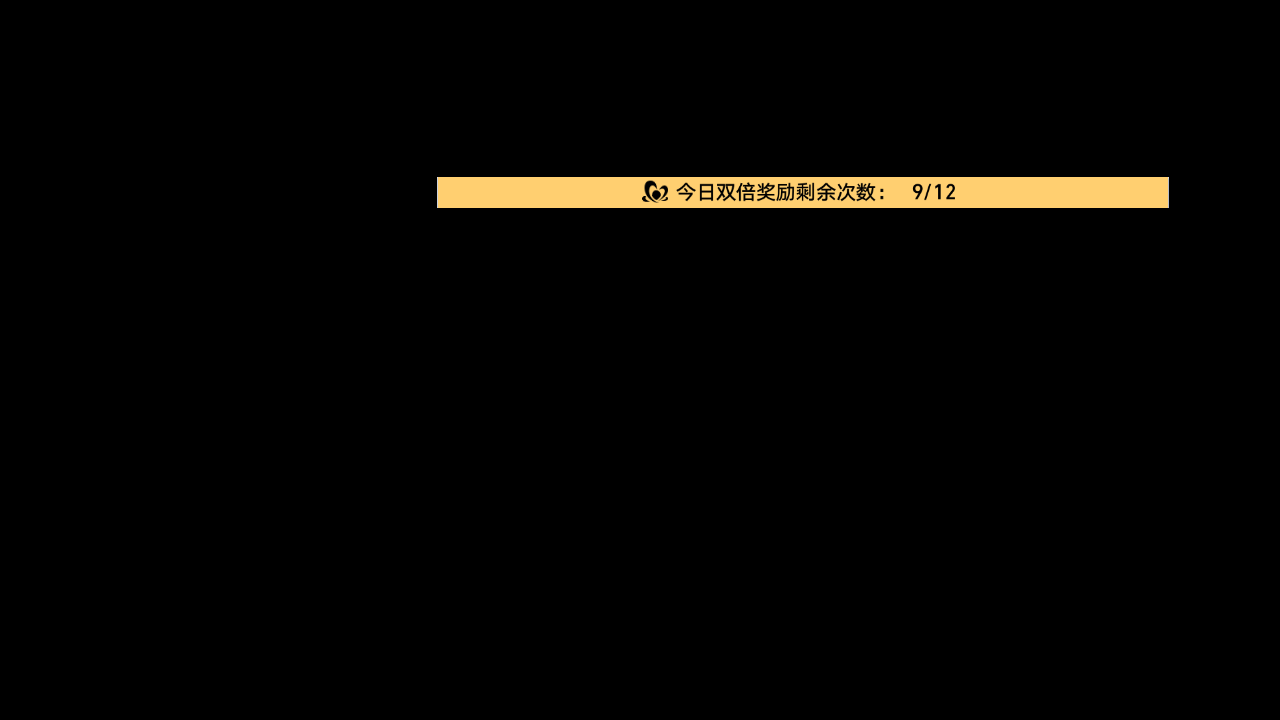
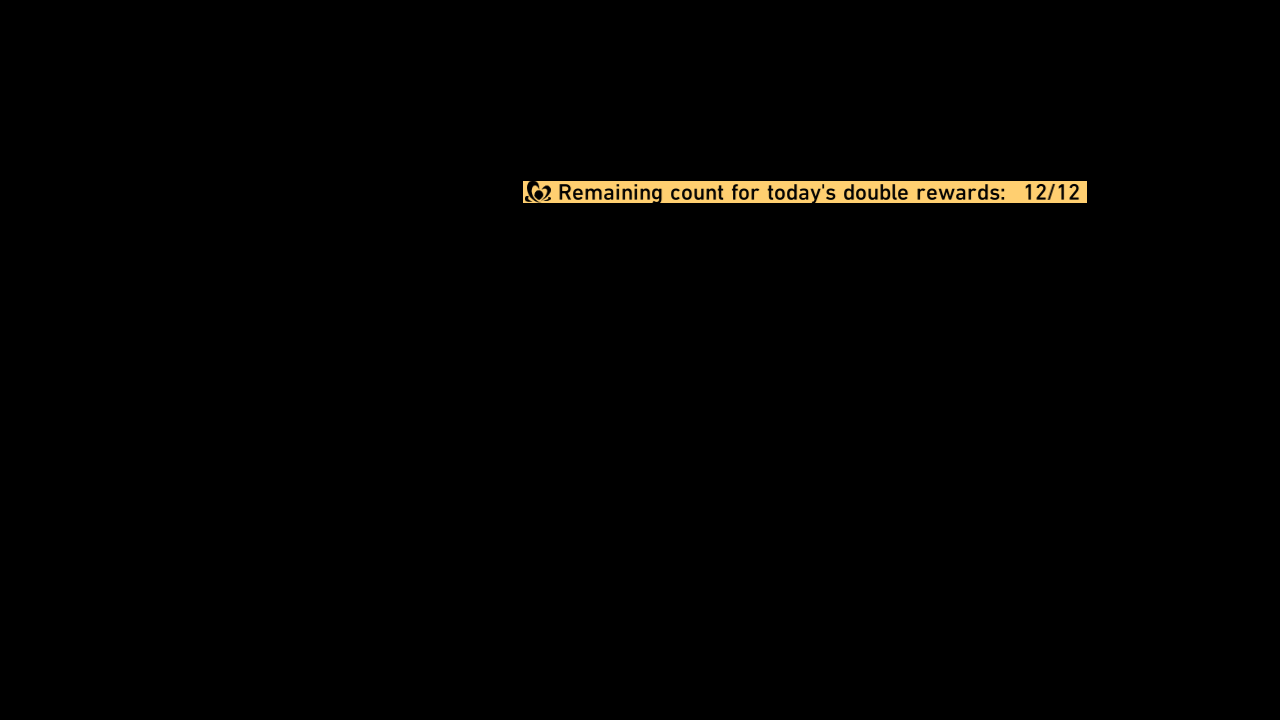
Fix: Check DungeonDouble before combat

Changed region(s): [[0.3438, 0.2444, 0.9375, 0.3056]]

diff --git a/tasks/dungeon/dungeon.py b/tasks/dungeon/dungeon.py
@@ -15,6 +15,7 @@ from tasks.battle_pass.keywords import KEYWORD_BATTLE_PASS_QUEST
 class Dungeon(DungeonUI, DungeonEvent, Combat):
     called_daily_support = False
     achieved_daily_quest = False
+    running_double = False
     daily_quests = []
 
     def _dungeon_run(self, dungeon: DungeonList, team: int = None, wave_limit: int = 0, support_character: str = None,
@@ -50,7 +51,24 @@ class Dungeon(DungeonUI, DungeonEvent, Combat):
                 if self.handle_destructible_around_blaze():
                     self.dungeon_tab_goto(KEYWORDS_DUNGEON_TAB.Survival_Index)
                     self.dungeon_goto(dungeon)
-
+        # Check double event remain before combat
+        # Conservatively prefer the smaller result
+        if (dungeon.is_Calyx_Golden or dungeon.is_Calyx_Crimson) and \
+                self.running_double and self.config.stored.DungeonDouble.calyx > 0:
+            calyx = self.get_double_event_remain_at_combat()
+            if calyx < self.config.stored.DungeonDouble.calyx:
+                self.config.stored.DungeonDouble.calyx = calyx
+                wave_limit = calyx
+            if calyx == 0:
+                return 0
+        if dungeon.is_Cavern_of_Corrosion and self.running_double and \
+                self.config.stored.DungeonDouble.relic > 0:
+            relic = self.get_double_event_remain_at_combat()
+            if relic < self.config.stored.DungeonDouble.relic:
+                self.config.stored.DungeonDouble.relic = relic
+                wave_limit = relic
+            if relic == 0:
+                return 0
         # Combat
         count = self.combat(team=team, wave_limit=wave_limit, support_character=support_character)
 
@@ -126,6 +144,7 @@ class Dungeon(DungeonUI, DungeonEvent, Combat):
         self.config.update_daily_quests()
         self.called_daily_support = False
         self.achieved_daily_quest = False
+        self.running_double = False
         self.daily_quests = self.config.stored.DailyQuest.load_quests()
 
         # Update double event records
@@ -159,6 +178,7 @@ class Dungeon(DungeonUI, DungeonEvent, Combat):
                 and self.config.stored.DungeonDouble.calyx > 0:
             logger.info('Run double calyx')
             dungeon = DungeonList.find(self.config.Dungeon_NameAtDoubleCalyx)
+            self.running_double = True
             if self.dungeon_run(dungeon=dungeon, wave_limit=self.config.stored.DungeonDouble.calyx):
                 if dungeon.is_Calyx_Golden:
                     ran_calyx_golden = True
@@ -169,8 +189,10 @@ class Dungeon(DungeonUI, DungeonEvent, Combat):
                 and self.config.stored.DungeonDouble.relic > 0:
             logger.info('Run double relic')
             dungeon = DungeonList.find(self.config.Dungeon_NameAtDoubleRelic)
+            self.running_double = True
             if self.dungeon_run(dungeon=dungeon, wave_limit=self.config.stored.DungeonDouble.relic):
                 ran_cavern_of_corrosion = True
+        self.running_double = False
 
         # Dungeon to clear all trailblaze power
         final = DungeonList.find(self.config.Dungeon_Name)

diff --git a/tasks/dungeon/event.py b/tasks/dungeon/event.py
@@ -6,14 +6,18 @@ from tasks.base.ui import UI
 from tasks.dungeon.assets.assets_dungeon_event import (
     DOUBLE_CALYX_EVENT_TAG,
     DOUBLE_RELIC_EVENT_TAG,
-    OCR_DOUBLE_EVENT_REMAIN
+    OCR_DOUBLE_EVENT_REMAIN,
+    OCR_DOUBLE_EVENT_REMAIN_AT_COMBAT,
 )
 
 
 class DoubleEventOcr(DigitCounter):
     def after_process(self, result):
         result = super().after_process(result)
-        # 9112 -> 9/12
+        # re.sub as last resort, just in case
+        # x12 -> x/12 but x112 does not change
+        result = re.sub(r'(?<!\d)(\d[02-9]*)12$', r'\1/12', result)
+        # x112 -> x/12
         result = re.sub(r'112$', '/12', result)
         return result
 
@@ -39,15 +43,45 @@ class DungeonEvent(UI):
         logger.attr('Double relic', has)
         return has
 
+    def has_double_event_at_combat(self) -> bool:
+        """
+        TODO: OCR_DOUBLE_EVENT_REMAIN_AT_COMBAT of relic may be different from that of calyx
+        Pages:
+            in: COMBAT_PREPARE
+        """
+        has = self.image_color_count(
+            OCR_DOUBLE_EVENT_REMAIN_AT_COMBAT,
+            color=(252, 209, 123),
+            threshold=221, count=1000
+        )
+        logger.attr('Double event at combat', has)
+        return has
+
+    def _get_double_event_remain(self, button) -> int:
+        ocr = DoubleEventOcr(button)
+        remain, _, total = ocr.ocr_single_line(self.device.image)
+        if total not in [3, 12]:
+            logger.warning(f'Invalid double event remain')
+            remain = 0
+        return remain
+
     def get_double_event_remain(self) -> int:
         """
         Pages:
             in: page_guide, Survival_Index, selected at the nav with double event
         """
-        ocr = DoubleEventOcr(OCR_DOUBLE_EVENT_REMAIN)
-        remain, _, total = ocr.ocr_single_line(self.device.image)
-        if total not in [3, 12]:
-            logger.warning(f'Invalid double event remain')
-            remain = 0
+        remain = self._get_double_event_remain(OCR_DOUBLE_EVENT_REMAIN)
         logger.attr('Double event remain', remain)
+        return remain
+
+    def get_double_event_remain_at_combat(self) -> int:
+        """
+        Pages:
+            in: COMBAT_PREPARE
+        """
+        remain = 0
+        if self.has_double_event_at_combat():
+            remain = self._get_double_event_remain(
+                OCR_DOUBLE_EVENT_REMAIN_AT_COMBAT)
+        logger.attr('Double event remain at combat', remain)
         return remain

diff --git a/tasks/dungeon/assets/assets_dungeon_event.py b/tasks/dungeon/assets/assets_dungeon_event.py
@@ -27,9 +27,26 @@ OCR_DOUBLE_EVENT_REMAIN = ButtonWrapper(
     name='OCR_DOUBLE_EVENT_REMAIN',
     share=Button(
         file='./assets/share/dungeon/event/OCR_DOUBLE_EVENT_REMAIN.png',
-        area=(437, 177, 1169, 208),
-        search=(417, 157, 1189, 228),
-        color=(234, 190, 103),
-        button=(437, 177, 1169, 208),
+        area=(523, 181, 1087, 203),
+        search=(503, 161, 1107, 223),
+        color=(200, 162, 88),
+        button=(523, 181, 1087, 203),
+    ),
+)
+OCR_DOUBLE_EVENT_REMAIN_AT_COMBAT = ButtonWrapper(
+    name='OCR_DOUBLE_EVENT_REMAIN_AT_COMBAT',
+    cn=Button(
+        file='./assets/cn/dungeon/event/OCR_DOUBLE_EVENT_REMAIN_AT_COMBAT.png',
+        area=(872, 515, 1192, 538),
+        search=(852, 495, 1212, 558),
+        color=(171, 139, 76),
+        button=(872, 515, 1192, 538),
+    ),
+    en=Button(
+        file='./assets/en/dungeon/event/OCR_DOUBLE_EVENT_REMAIN_AT_COMBAT.png',
+        area=(814, 510, 1246, 530),
+        search=(794, 490, 1266, 550),
+        color=(194, 158, 86),
+        button=(814, 510, 1246, 530),
     ),
 )

diff --git a/tasks/rogue/assets/assets_rogue_reward.py b/tasks/rogue/assets/assets_rogue_reward.py
@@ -10,6 +10,6 @@ ROGUE_REPORT = ButtonWrapper(
         area=(1198, 19, 1223, 42),
         search=(1178, 0, 1243, 62),
         color=(203, 165, 119),
-        button=(382, 645, 894, 700),
+        button=(1198, 19, 1223, 42),
     ),
 )
